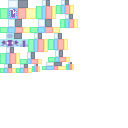
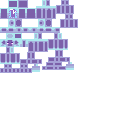
chore: update Temporal Phantom model and texture
- Update root offset from 21.0F to 20.0F in model
- Update texture in both source and game resources
- Update Blockbench source file

🤖 Generated with [Claude Code](https://claude.com/claude-code)

Changed region(s): [[0.0, 0.0, 0.625, 0.5938]]

diff --git a/common/src/main/java/com/chronosphere/client/model/TemporalPhantomModel.java b/common/src/main/java/com/chronosphere/client/model/TemporalPhantomModel.java
@@ -46,7 +46,7 @@ public class TemporalPhantomModel<T extends Mob> extends EntityModel<T> {
         MeshDefinition meshdefinition = new MeshDefinition();
         PartDefinition partdefinition = meshdefinition.getRoot();
 
-        PartDefinition root = partdefinition.addOrReplaceChild("root", CubeListBuilder.create(), PartPose.offset(0.0F, 21.0F, 0.0F));
+        PartDefinition root = partdefinition.addOrReplaceChild("root", CubeListBuilder.create(), PartPose.offset(0.0F, 20.0F, 0.0F));
 
         PartDefinition body = root.addOrReplaceChild("body", CubeListBuilder.create().texOffs(42, 62).addBox(-4.0F, -23.0F, -2.0F, 8.0F, 4.0F, 4.0F, new CubeDeformation(0.0F)), PartPose.offset(0.0F, 0.0F, 0.0F));
 
@@ -116,7 +116,7 @@ public class TemporalPhantomModel<T extends Mob> extends EntityModel<T> {
         // Idle animation - slight floating motion for ghostly effect
         if (limbSwingAmount < 0.01F && entity.attackAnim <= 0.0F) {
             float idleFloat = ageInTicks * 0.08F;
-            this.root.y = 21.0F + Mth.sin(idleFloat) * 1.0F; // Floating up and down
+            this.root.y = 20.0F + Mth.sin(idleFloat) * 1.0F; // Floating up and down
 
             // Slight arm sway
             this.rightArm.xRot += Mth.cos(idleFloat) * 0.05F;
